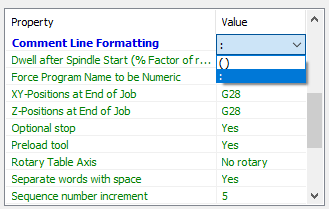
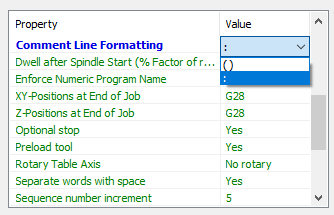
doc updates

Changed region(s): [[0.0, 0.0287, 1.0, 1.0], [0.6687, 0.6603, 0.7295, 0.7177]]

diff --git a/docs/forceNumeric.md b/docs/forceNumeric.md
@@ -3,9 +3,58 @@
 ![](/images/pp011.PNG)
 
 ## Description
-The default CENTROID Post Processor requires the *Program Name* to be numeric but CNC12 does allow non-numeric program names. Setting this property not to enforce a numeric *Program Name* will allow to use more descriptive program names.
+The default CENTROID Post Processor requires the *Program Name* to be numeric but CNC12 does allow alpha-numeric names. This property allows to turn off the enforcement of numeric program names to support more descriptive alpha numeric names.
 
 ## Implementation Details
+By default, Fusion 360 does fill the fields *Program name or number* and *Program comment* in the *Post Process Window* with the corresponding values from the *Post Process Tab*  of the first *Setup* in the *CAM-File*:
+
+![](/images/pp012.PNG)
+
+Fusion 360 does allow to modify the default values and a non-numeric *Program Name/Number* can be entered even when the *Property: Enforce Numeric Program Name = Yes* is set. In this case, the Post Processor will create an error log file with this message:
+
+```javascript
+...
+
+###############################################################################
+Error: Program name must be a number. Change Properties to accept non-numeric Program Names
+Error at line: 352
+Failed while processing onOpen().
+###############################################################################
+
+...
+```
+
+### Option Enforce Numeric Program Name
+This is the default setting and the Post Processor will only accept a number between *1 - 99999* as the *Program Name/Number*, otherwise the Post Processor will not create a *Job-File* and will output an error log instead, similar to the one listed above. A successful output does look like this:
+
+```javascript
+%
+O01001
+(1001)
+(Program Comment of Program Name 1001)
+(T1  D=4. CR=0. TAPER=90deg - ZMIN=-1. - spot drill - 4mm Spot Drill)
+...
+
+```
+
+The Post Processor will write a block/line with the *Program Number* preceded by the letter "*O*". This *O-Program Number* is accepted by CNC12 and provides some built-in functionality. This is the description of this functionality from *Centroid's CNC12 Operators Manual*:
+
+```
+Chapter 11.2.6 O — Program Number
+The O program number allows you to identify your program with a certain number. However, if the speciﬁed program number is 9100-9999, the G-codes from the O number through the next M99 will be extracted (but not executed) and placed in a separate subprogram/macro ﬁle named Oxxxx.cnc, where xxxx is the speciﬁed program number. This separate ﬁle can later be called with M98 or G65.
+```
+
+### Option NOT to Enforce Numeric Program Name
+This option will allow a more descriptive, alpha-numeric *Program Name*. Be aware that usimg this option does not provide the *O-Program Number* functionality as described above. The output with a non-numeric *Program Name* does look like this:
+
+```javascript
+%
+(Non-Numeric Program Name)
+(This is the Program Comment)
+(T1  D=4. CR=0. TAPER=90deg - ZMIN=-1. - spot drill - 4mm Spot Drill)
+...
+
+```
 
 
 [Back](index.md)

diff --git a/docs/index.md b/docs/index.md
@@ -15,7 +15,7 @@ These are the additional features that that can be activated trough the Post Pro
 * [Enable Clamp (*M10/M11*)](enableClamp.md)
 * [Comment Line Formatting](commentFormatting.md)
 * [Dwell after Spindle Start](enableDwell.md)
-* [Force Program Name to be Numeric](forceNumeric.md)
+* [Enforce Numeric Program Name](forceNumeric.md)
 * [XY-Position at End of Job](xyPosition.md)
 * [Z-Position at End of Job](zPosition.md)
 * [Rotary Table Axis](rotaryAxis.md)
